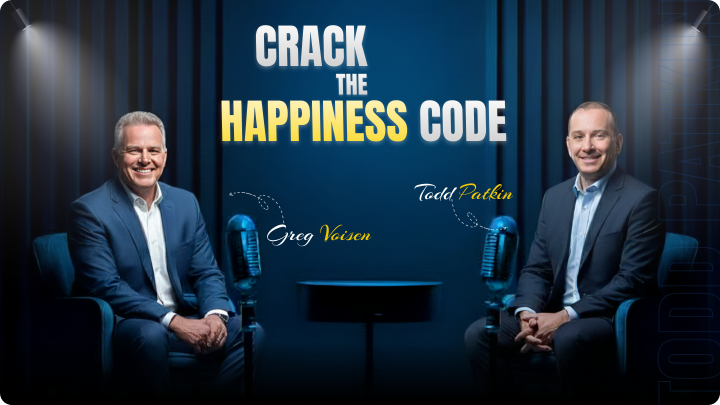
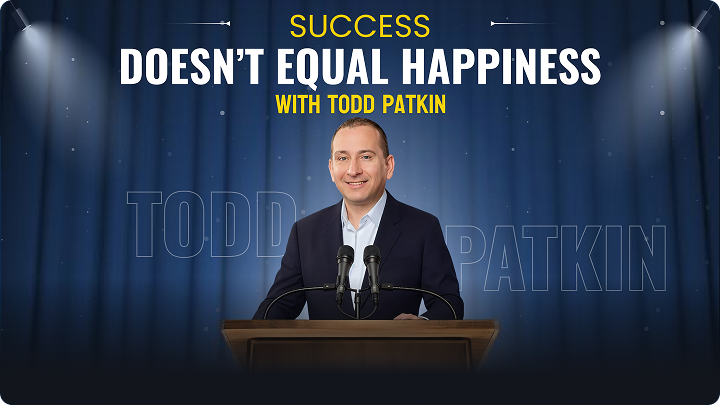
new chnages

diff --git a/wp-content/themes/toddpatkin/assets/css/style.css b/wp-content/themes/toddpatkin/assets/css/style.css
@@ -5885,7 +5885,7 @@ section .text-muted {
     font-size: 16px;
     line-height: 1.6;
     color: #666666;
-    margin-bottom: 20px;
+    margin-bottom: 8px;
     overflow: hidden;
     display: -webkit-box;
     -webkit-line-clamp: 3;

diff --git a/wp-content/themes/toddpatkin/templates/template-course.php b/wp-content/themes/toddpatkin/templates/template-course.php
@@ -444,7 +444,7 @@ document.addEventListener('DOMContentLoaded', function() {
                                 <span>Course</span>
                             </div>
                             <div class="d-flex flex-column">
-                                <div class="course-episode-content-info">
+                                <div class="course-episode-content-info ">
                                     <div class="d-flex align-items-center gap-3 mb-2">
                                         <div class="d-flex align-items-center gap-1">
                                             <i class="fas fa-user"></i>
@@ -459,8 +459,11 @@ document.addEventListener('DOMContentLoaded', function() {
                                     <h5 class="course-episode-title">Module 1: Being Easier on Yourself</h5>
                                     <p class="course-episode-description">Learn to recognize and break free from perfectionism and self-criticism that's keeping you stuck.</p>
                                 </div>
+                                <div style="font-family: 'Poppins', sans-serif;line-height: 1.6; color: #666666; margin-bottom: 8px;">Just at
+                                     <span style="color: #275BA7; font-weight: 600; font-size: 18px; letter-spacing: 0.5px;">27.99$</span>
+                                    </div>
                                 <a href="<?php echo esc_url( home_url( '/course/module-1' ) ); ?>" class="btn course-episode-button d-flex align-items-center justify-content-center" style="gap: 5.41px;">
-                                    Read More <i class="fas fa-arrow-right"></i>
+                                    Purchase Now <i class="fas fa-arrow-right"></i>
                                 </a>
                             </div>
                         </div>
@@ -495,8 +498,11 @@ document.addEventListener('DOMContentLoaded', function() {
                                     <h5 class="course-episode-title">Module 2: Focus on Movement</h5>
                                     <p class="course-episode-description">Discover how to manage negative thought patterns and anxiety before they manage you.</p>
                                 </div>
+                                <div style="font-family: 'Poppins', sans-serif;line-height: 1.6; color: #666666; margin-bottom: 8px;">Just at
+                                     <span style="color: #275BA7; font-weight: 600; font-size: 18px; letter-spacing: 0.5px;">27.99$</span>
+                                    </div>
                                 <a href="<?php echo esc_url( home_url( '/course/module-2' ) ); ?>" class="btn course-episode-button d-flex align-items-center justify-content-center" style="gap: 5.41px;">
-                                    Read More <i class="fas fa-arrow-right"></i>
+                                    Purchase Now <i class="fas fa-arrow-right"></i>
                                 </a>
                             </div>
                         </div>
@@ -531,8 +537,11 @@ document.addEventListener('DOMContentLoaded', function() {
                                     <h5 class="course-episode-title">Module 3:Focus on Taking Charge of Your Mind</h5>
                                     <p class="course-episode-description">Stop dwelling on the past or worrying about the future. Learn presence practices that create immediate calm.</p>
                                 </div>
+                                <div style="font-family: 'Poppins', sans-serif;line-height: 1.6; color: #666666; margin-bottom: 8px;">Just at
+                                     <span style="color: #275BA7; font-weight: 600; font-size: 18px; letter-spacing: 0.5px;">27.99$</span>
+                                    </div>
                                 <a href="<?php echo esc_url( home_url( '/course/module-3' ) ); ?>" class="btn course-episode-button d-flex align-items-center justify-content-center" style="gap: 5.41px;">
-                                    Read More <i class="fas fa-arrow-right"></i>
+                                    Purchase Now <i class="fas fa-arrow-right"></i>
                                 </a>
                             </div>
                         </div>
@@ -569,8 +578,11 @@ document.addEventListener('DOMContentLoaded', function() {
                                     <h5 class="course-episode-title">Module 4:Focus on Living in the Present</h5>
                                     <p class="course-episode-description">Why loving yourself must come first—and how to do it even when it feels impossible.</p>
                                 </div>
+                                <div style="font-family: 'Poppins', sans-serif;line-height: 1.6; color: #666666; margin-bottom: 8px;">Just at
+                                     <span style="color: #275BA7; font-weight: 600; font-size: 18px; letter-spacing: 0.5px;">27.99$</span>
+                                    </div>
                                 <a href="<?php echo esc_url( home_url( '/course/module-4' ) ); ?>" class="btn course-episode-button d-flex align-items-center justify-content-center" style="gap: 5.41px;">
-                                    Read More <i class="fas fa-arrow-right"></i>
+                                    Purchase Now <i class="fas fa-arrow-right"></i>
                                 </a>
                             </div>
                         </div>
@@ -603,8 +615,11 @@ document.addEventListener('DOMContentLoaded', function() {
                                     <h5 class="course-episode-title">Module 5: Focus on Eliminating Stressors</h5>
                                     <p class="course-episode-description">The surprising science behind why movement is non-negotiable for mental health.</p>
                                 </div>
+                                <div style="font-family: 'Poppins', sans-serif;line-height: 1.6; color: #666666; margin-bottom: 8px;">Just at
+                                     <span style="color: #275BA7; font-weight: 600; font-size: 18px; letter-spacing: 0.5px;">27.99$</span>
+                                    </div>
                                 <a href="<?php echo esc_url( home_url( '/course/module-5' ) ); ?>" class="btn course-episode-button d-flex align-items-center justify-content-center" style="gap: 5.41px;">
-                                    Read More <i class="fas fa-arrow-right"></i>
+                                    Purchase Now <i class="fas fa-arrow-right"></i>
                                 </a>
                             </div>
                         </div>
@@ -637,8 +652,11 @@ document.addEventListener('DOMContentLoaded', function() {
                                     <h5 class="course-episode-title">Module 6:Focus on Playing to Your Strengths</h5>
                                     <p class="course-episode-description">How spiritual connection (however you define it) shapes your experience of life.</p>
                                 </div>
+                                <div style="font-family: 'Poppins', sans-serif;line-height: 1.6; color: #666666; margin-bottom: 8px;">Just at
+                                     <span style="color: #275BA7; font-weight: 600; font-size: 18px; letter-spacing: 0.5px;">27.99$</span>
+                                    </div>
                                 <a href="<?php echo esc_url( home_url( '/course/module-6' ) ); ?>" class="btn course-episode-button d-flex align-items-center justify-content-center" style="gap: 5.41px;">
-                                    Read More <i class="fas fa-arrow-right"></i>
+                                    Purchase Now <i class="fas fa-arrow-right"></i>
                                 </a>
                             </div>
                         </div>
@@ -675,8 +693,11 @@ document.addEventListener('DOMContentLoaded', function() {
                                     <h5 class="course-episode-title">Module 7:Spending More Time With Positive People</h5>
                                     <p class="course-episode-description">Why your marriage or primary relationship plays a crucial role in your happiness.</p>
                                 </div>
+                                <div style="font-family: 'Poppins', sans-serif;line-height: 1.6; color: #666666; margin-bottom: 8px;">Just at
+                                     <span style="color: #275BA7; font-weight: 600; font-size: 18px; letter-spacing: 0.5px;">27.99$</span>
+                                    </div>
                                 <a href="<?php echo esc_url( home_url( '/course/module-7' ) ); ?>" class="btn course-episode-button d-flex align-items-center justify-content-center" style="gap: 5.41px;">
-                                    Read More <i class="fas fa-arrow-right"></i>
+                                    Purchase Now <i class="fas fa-arrow-right"></i>
                                 </a>
                             </div>
                         </div>
@@ -709,8 +730,11 @@ document.addEventListener('DOMContentLoaded', function() {
                                     <h5 class="course-episode-title">Module 8:Focus on Strengthening Close Relationships</h5>
                                     <p class="course-episode-description">Strategies for managing difficult relationships and setting healthy boundaries.</p>
                                 </div>
+                                <div style="font-family: 'Poppins', sans-serif;line-height: 1.6; color: #666666; margin-bottom: 8px;">Just at
+                                     <span style="color: #275BA7; font-weight: 600; font-size: 18px; letter-spacing: 0.5px;">27.99$</span>
+                                    </div>
                                 <a href="<?php echo esc_url( home_url( '/course/module-8' ) ); ?>" class="btn course-episode-button d-flex align-items-center justify-content-center" style="gap: 5.41px;">
-                                    Read More <i class="fas fa-arrow-right"></i>
+                                    Purchase Now <i class="fas fa-arrow-right"></i>
                                 </a>
                             </div>
                         </div>
@@ -743,6 +767,9 @@ document.addEventListener('DOMContentLoaded', function() {
                                     <h5 class="course-episode-title">Module 9:Focus on Being Friendly</h5>
                                     <p class="course-episode-description">Moving beyond simple "thank you" to truly transformative gratitude.</p>
                                 </div>
+                                <div style="font-family: 'Poppins', sans-serif;line-height: 1.6; color: #666666; margin-bottom: 8px;">Just at
+                                     <span style="color: #275BA7; font-weight: 600; font-size: 18px; letter-spacing: 0.5px;">27.99$</span>
+                                    </div>
                                 <a href="<?php echo esc_url( home_url( '/course/module-9' ) ); ?>" class="btn course-episode-button d-flex align-items-center justify-content-center" style="gap: 5.41px;">
                                     Read More <i class="fas fa-arrow-right"></i>
                                 </a>
@@ -781,8 +808,11 @@ document.addEventListener('DOMContentLoaded', function() {
                                     <h5 class="course-episode-title">Module 10:Focus on Helping Others</h5>
                                     <p class="course-episode-description">Why giving back is one of the most powerful tools for your own recovery.</p>
                                 </div>
+                                <div style="font-family: 'Poppins', sans-serif;line-height: 1.6; color: #666666; margin-bottom: 8px;">Just at
+                                     <span style="color: #275BA7; font-weight: 600; font-size: 18px; letter-spacing: 0.5px;">27.99$</span>
+                                    </div>
                                 <a href="<?php echo esc_url( home_url( '/course/module-10' ) ); ?>" class="btn course-episode-button d-flex align-items-center justify-content-center" style="gap: 5.41px;">
-                                    Read More <i class="fas fa-arrow-right"></i>
+                                    Purchase Now <i class="fas fa-arrow-right"></i>
                                 </a>
                             </div>
                         </div>
@@ -813,10 +843,13 @@ document.addEventListener('DOMContentLoaded', function() {
                                         </div>
                                     </div>
                                     <h5 class="course-episode-title">Module 11:Developing An Attitude of Gratitude</h5>
-                                    <p class="course-episode-description">Creating and maintaining the network that will support your happiness journey.</p>
+                                    <p class="course-episode-description border">Creating and maintaining the network that will support your happiness journey.</p>
                                 </div>
+                                <div style="font-family: 'Poppins', sans-serif;line-height: 1.6; color: #666666; margin-bottom: 8px;">Just at
+                                     <span style="color: #275BA7; font-weight: 600; font-size: 18px; letter-spacing: 0.5px;">27.99$</span>
+                                    </div>
                                 <a href="<?php echo esc_url( home_url( '/course/module-11' ) ); ?>" class="btn course-episode-button d-flex align-items-center justify-content-center" style="gap: 5.41px;">
-                                    Read More <i class="fas fa-arrow-right"></i>
+                                    Purchase Now <i class="fas fa-arrow-right"></i>
                                 </a>
                             </div>
                         </div>
@@ -849,8 +882,11 @@ document.addEventListener('DOMContentLoaded', function() {
                                     <h5 class="course-episode-title">Module 12:Focus on Your Higher Power</h5>
                                     <p class="course-episode-description">How to maintain momentum and continue growing long after the course ends.</p>
                                 </div>
+                                <div style="font-family: 'Poppins', sans-serif;line-height: 1.6; color: #666666; margin-bottom: 8px;">Just at
+                                     <span style="color: #275BA7; font-weight: 600; font-size: 18px; letter-spacing: 0.5px;">27.99$</span>
+                                    </div>
                                 <a href="<?php echo esc_url( home_url( '/course/module-12' ) ); ?>" class="btn course-episode-button d-flex align-items-center justify-content-center" style="gap: 5.41px;">
-                                    Read More <i class="fas fa-arrow-right"></i>
+                                    Purchase Now <i class="fas fa-arrow-right"></i>
                                 </a>
                             </div>
                         </div>

diff --git a/wp-content/themes/toddpatkin/functions.php b/wp-content/themes/toddpatkin/functions.php
@@ -30,7 +30,8 @@ function toddpatkin_create_required_pages() {
         array( 'slug' => 'podcast/podcast-1', 'title' => 'Podcast 1: Crack the Happiness Code', 'template' => 'templates/template-podcast-1.php' ),
         array( 'slug' => 'podcast/podcast-2', 'title' => 'Podcast 2: Helping Others Helps You', 'template' => 'templates/template-podcast-2.php' ),
         array( 'slug' => 'podcast/podcast-3', 'title' => 'Podcast 3: Happiness Isn\'t What You Think', 'template' => 'templates/template-podcast-3.php' ),
-        array( 'slug' => 'podcast/podcast-4', 'title' => 'Podcast 4: 12 Steps to Happiness', 'template' => 'templates/template-podcast-4.php' ),
+        array( 'slug' => 'podcast/podcast-4', 'title' => 'Podcast 4: 12 Steps to Happiness', 'template' => 'templates/template-podcast-4.php'),
+        array( 'slug' => 'podcast/podcast-5', 'title' => 'Podcast 5: The Happiness Code', 'template' => 'templates/template-podcast-5.php'),
         array( 'slug' => 'blog', 'title' => 'Blog', 'template' => 'templates/template-blog.php' ),
         // Blog detail pages
         array( 'slug' => 'blog/blog-1', 'title' => 'Money and Happiness: Why More Isn\'t Always Better', 'template' => 'templates/template-blog-1.php' ),
@@ -232,7 +233,7 @@ function toddpatkin_intercept_missing_pages( $wp ) {
     
     // Skip if this is likely a blog post (check if it's a post, not a page)
     // First, check if it matches any known page template slugs
-    $known_page_slugs = array( 'expertise', 'about-book', 'about-author', 'course', 'podcast', 'blog', 'preview-book', 'preview-boot-camp', 'boot-camp', 'hire-todd', 'module-1', 'module-2', 'module-3', 'module-4', 'module-5', 'module-6', 'module-7', 'module-8', 'module-9', 'module-10', 'module-11', 'module-12', 'podcast-1', 'podcast-2', 'podcast-3', 'podcast-4', 'blog-1', 'blog-2', 'blog-3', 'blog-4', 'blog-5', 'blog-6', 'blog-7', 'blog-8', 'blog-9', 'blog-10', 'blog-11', 'blog-12', 'blog-13', 'blog-14', 'blog-15', 'blog-16', 'blog-17' );
+    $known_page_slugs = array( 'expertise', 'about-book', 'about-author', 'course', 'podcast', 'blog', 'preview-book', 'preview-boot-camp', 'boot-camp', 'hire-todd', 'module-1', 'module-2', 'module-3', 'module-4', 'module-5', 'module-6', 'module-7', 'module-8', 'module-9', 'module-10', 'module-11', 'module-12', 'podcast-1', 'podcast-2', 'podcast-3', 'podcast-4', 'podcast-5', 'blog-1', 'blog-2', 'blog-3', 'blog-4', 'blog-5', 'blog-6', 'blog-7', 'blog-8', 'blog-9', 'blog-10', 'blog-11', 'blog-12', 'blog-13', 'blog-14', 'blog-15', 'blog-16', 'blog-17' );
     
     $path_parts_temp = array_filter( explode( '/', $request_uri ) );
     $last_slug_temp = end( $path_parts_temp );
@@ -329,6 +330,7 @@ function toddpatkin_intercept_missing_pages( $wp ) {
         'podcast-2' => array( 'title' => 'Podcast 2: Helping Others Helps You', 'template' => 'templates/template-podcast-2.php', 'parent' => 'podcast' ),
         'podcast-3' => array( 'title' => 'Podcast 3: Happiness Isn\'t What You Think', 'template' => 'templates/template-podcast-3.php', 'parent' => 'podcast' ),
         'podcast-4' => array( 'title' => 'Podcast 4: 12 Steps to Happiness', 'template' => 'templates/template-podcast-4.php', 'parent' => 'podcast' ),
+        'podcast-5' => array( 'title' => 'Podcast 5: The Happiness Code', 'template' => 'templates/template-podcast-5.php', 'parent' => 'podcast' ),
         'blog' => array( 'title' => 'Blog', 'template' => 'templates/template-blog.php' ),
         // Blog detail pages
         'blog-1' => array( 'title' => 'Money and Happiness: Why More Isn\'t Always Better', 'template' => 'templates/template-blog-1.php', 'parent' => 'blog' ),
@@ -463,7 +465,7 @@ function toddpatkin_handle_404_create_page() {
     $request_uri = rtrim( $request_uri, '/.html' );
     
     // Skip if this is likely a blog post
-    $known_page_slugs = array( 'expertise', 'about-book', 'about-author', 'course', 'podcast', 'blog', 'preview-book', 'preview-boot-camp', 'boot-camp', 'hire-todd', 'module-1', 'module-2', 'module-3', 'module-4', 'module-5', 'module-6', 'module-7', 'module-8', 'module-9', 'module-10', 'module-11', 'module-12', 'podcast-1', 'podcast-2', 'podcast-3', 'podcast-4', 'blog-1', 'blog-2', 'blog-3', 'blog-4', 'blog-5', 'blog-6', 'blog-7', 'blog-8', 'blog-9', 'blog-10', 'blog-11', 'blog-12', 'blog-13', 'blog-14', 'blog-15', 'blog-16', 'blog-17' );
+    $known_page_slugs = array( 'expertise', 'about-book', 'about-author', 'course', 'podcast', 'blog', 'preview-book', 'preview-boot-camp', 'boot-camp', 'hire-todd', 'module-1', 'module-2', 'module-3', 'module-4', 'module-5', 'module-6', 'module-7', 'module-8', 'module-9', 'module-10', 'module-11', 'module-12', 'podcast-1', 'podcast-2', 'podcast-3', 'podcast-4', 'podcast-5', 'blog-1', 'blog-2', 'blog-3', 'blog-4', 'blog-5', 'blog-6', 'blog-7', 'blog-8', 'blog-9', 'blog-10', 'blog-11', 'blog-12', 'blog-13', 'blog-14', 'blog-15', 'blog-16', 'blog-17' );
     
     $path_parts = array_filter( explode( '/', $request_uri ) );
     $slug = end( $path_parts );
@@ -549,6 +551,7 @@ function toddpatkin_handle_404_create_page() {
         'podcast-2' => array( 'title' => 'Podcast 2: Helping Others Helps You', 'template' => 'templates/template-podcast-2.php', 'parent' => 'podcast' ),
         'podcast-3' => array( 'title' => 'Podcast 3: Happiness Isn\'t What You Think', 'template' => 'templates/template-podcast-3.php', 'parent' => 'podcast' ),
         'podcast-4' => array( 'title' => 'Podcast 4: 12 Steps to Happiness', 'template' => 'templates/template-podcast-4.php', 'parent' => 'podcast' ),
+        'podcast-5' => array( 'title' => 'Podcast 5: The Happiness Code', 'template' => 'templates/template-podcast-5.php', 'parent' => 'podcast' ),
         'blog' => array( 'title' => 'Blog', 'template' => 'templates/template-blog.php' ),
         // Blog detail pages
         'blog-1' => array( 'title' => 'Money and Happiness: Why More Isn\'t Always Better', 'template' => 'templates/template-blog-1.php', 'parent' => 'blog' ),
@@ -800,6 +803,7 @@ function toddpatkin_force_page_template( $template ) {
         'podcast-2' => 'templates/template-podcast-2.php',
         'podcast-3' => 'templates/template-podcast-3.php',
         'podcast-4' => 'templates/template-podcast-4.php',
+        'podcast-5' => 'templates/template-podcast-5.php',
         'blog' => 'templates/template-blog.php',
         'preview-book' => 'templates/template-preview-book.php',
         'preview-boot-camp' => 'templates/template-preview-boot-camp.php',
@@ -995,6 +999,7 @@ function toddpatkin_force_template_include( $template ) {
         'podcast-2' => 'templates/template-podcast-2.php',
         'podcast-3' => 'templates/template-podcast-3.php',
         'podcast-4' => 'templates/template-podcast-4.php',
+        'podcast-5' => 'templates/template-podcast-5.php',
         'blog' => 'templates/template-blog.php',
         'preview-book' => 'templates/template-preview-book.php',
         'preview-boot-camp' => 'templates/template-preview-boot-camp.php',
@@ -1044,6 +1049,7 @@ function toddpatkin_fix_page_templates() {
         'podcast-2' => 'templates/template-podcast-2.php',
         'podcast-3' => 'templates/template-podcast-3.php',
         'podcast-4' => 'templates/template-podcast-4.php',
+        'podcast-5' => 'templates/template-podcast-5.php',
         'blog' => 'templates/template-blog.php',
         'preview-book' => 'templates/template-preview-book.php',
         'preview-boot-camp' => 'templates/template-preview-boot-camp.php',

diff --git a/wp-content/themes/toddpatkin/templates/template-podcast.php b/wp-content/themes/toddpatkin/templates/template-podcast.php
@@ -248,6 +248,39 @@ get_header();
         <!-- <div class="text-center mt-5">
                 <a href="#" class="btn btn-warning btn-lg"><span class="btn-content">View More</span></a>
             </div> -->
+
+            <div class="text-center mt-5 mb-5">
+            <h2 class="podcast-page-title mb-2">
+                <span class="podcast-page-title-blue">BOOk</span>
+                <span class="podcast-page-title-yellow">SUMMARY</span>
+            </h2>
+           
+        </div>  
+        
+        <div class="podcast-cards-grid">
+            <!-- Row 1: Two Cards -->
+            <div class="row g-4 mb-4">
+                <!-- Podcast Card 1 -->
+                <div class="col-12 col-md-6">
+                    <a href="<?php echo esc_url( home_url( '/podcast/podcast-5' ) ); ?>" class="text-decoration-none">
+                        <div class="card border-0 shadow-sm overflow-hidden position-relative podcast-card">
+                            <img src="<?php echo get_template_directory_uri(); ?>/assets/images/podcast_5.png" class="img-fluid w-100 podcast-card-image" alt="Crack the happiness code">
+                            <div class="position-absolute bottom-0 start-0 p-4 text-white w-100 podcast-card-overlay">
+                                <!-- <h5 class="fw-bold mb-2 podcast-card-title">HELPING OTHERS HELPS YOU</h5> -->
+                            </div>
+                        </div>
+                    </a>
+                </div>
+
+            
+               
+            </div>
+
+           
+        </div>
+
+
+
     </div>
 </section>
 <?php

diff --git a/wp-content/themes/toddpatkin/templates/template-podcast-5.php b/wp-content/themes/toddpatkin/templates/template-podcast-5.php
@@ -1,7 +1,7 @@
 <?php
 
 /**
- * Template Name: Podcast 3
+ * Template Name: Podcast 5
  */
 get_header();
 ?>
@@ -47,7 +47,7 @@ get_header();
                 <div class="podcast-player-main position-relative" style="width: 100%; margin: 0; background: transparent !important; min-height: 0 !important; padding: 0;">
                     <div class="podcast-video-wrapper position-relative" style="width: 100%; padding-bottom: 56.25%; height: 0; overflow: hidden; background: #000;">
                         <iframe 
-                            src="https://www.youtube.com/embed/82a_1NYxk8w" 
+                            src="https://www.youtube.com/embed/_DoyDwTkrag" 
                             frameborder="0" 
                             allow="accelerometer; autoplay; clipboard-write; encrypted-media; gyroscope; picture-in-picture" 
                             allowfullscreen
